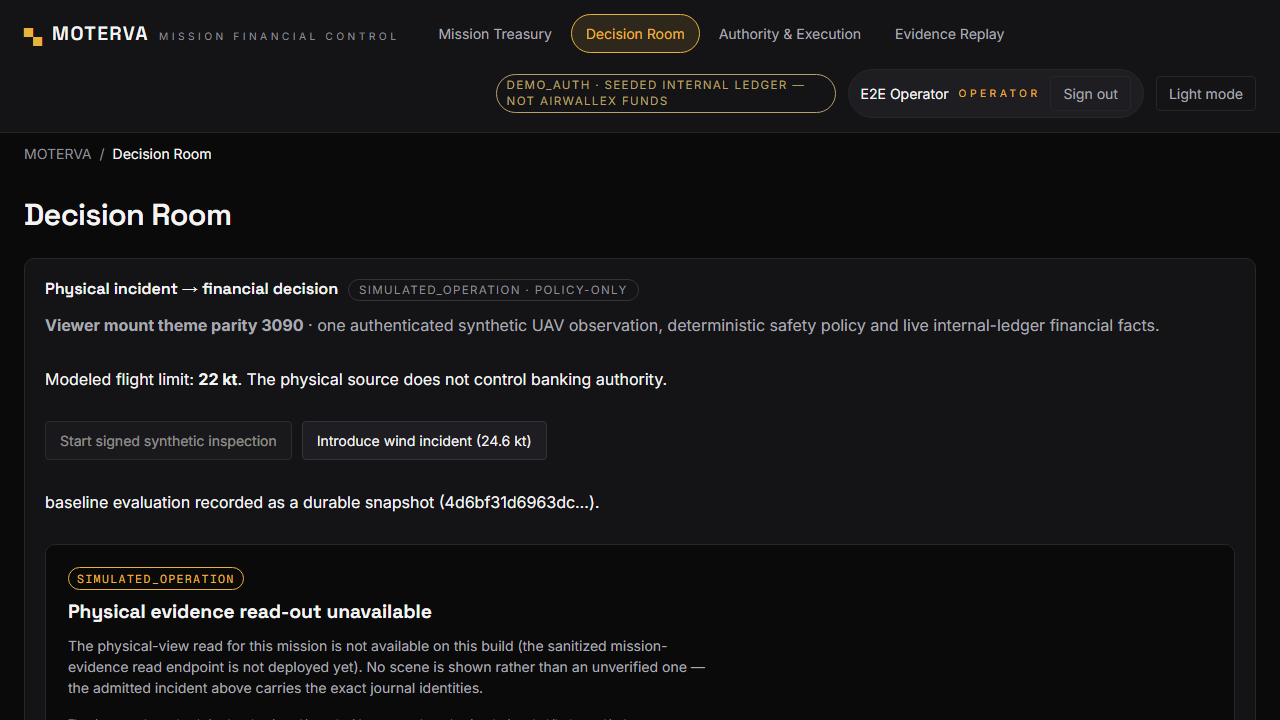
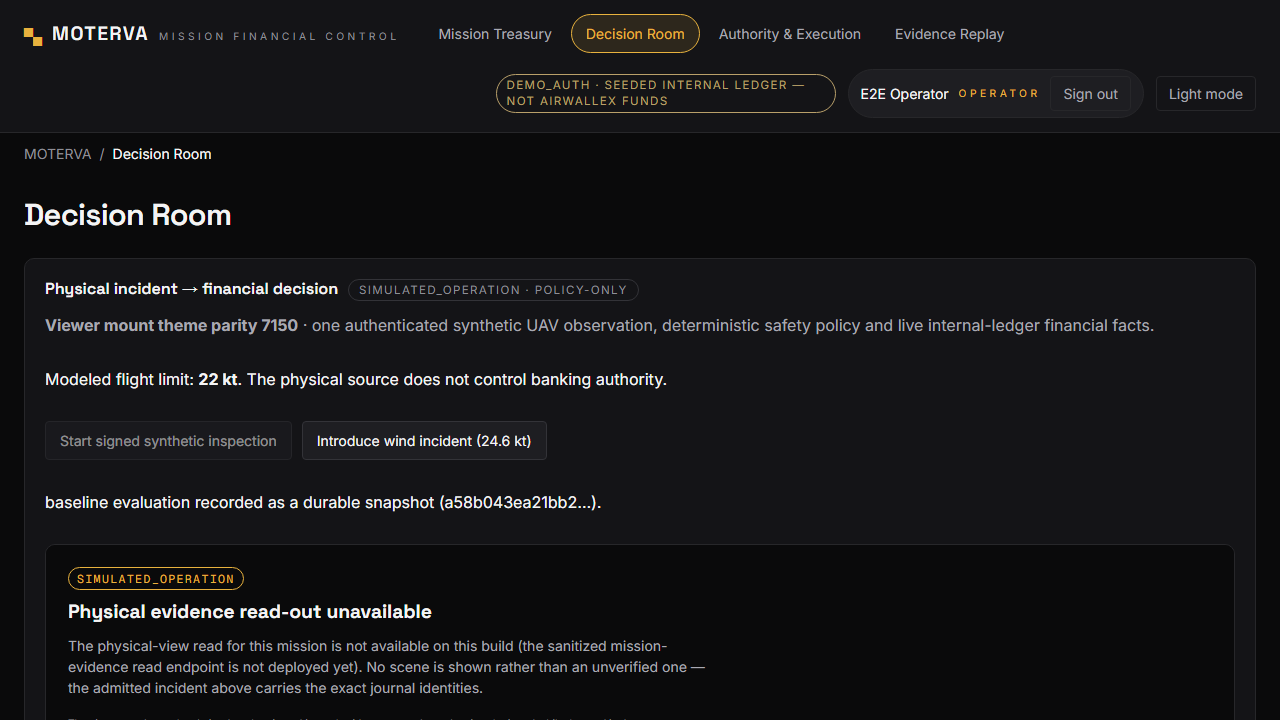
fix(mtv-12): async GLB attach must owe a rendered frame under demand gating (caught on hardware GL)

Changed region(s): [[0.1875, 0.4278, 0.9062, 0.4583], [0.3438, 0.6722, 0.4688, 0.7333]]

diff --git a/apps/web/src/mission-viewer/viewer3d.ts b/apps/web/src/mission-viewer/viewer3d.ts
@@ -391,6 +391,7 @@ export class MissionViewer3d {
         });
         this.droneGroup = group;
         this.scene.add(group);
+        this.needsRender = true; // async attach after the last frame must paint
         if (this.lastState !== null) this.applyPoses(this.lastState);
       },
       undefined,
@@ -399,6 +400,7 @@ export class MissionViewer3d {
         this.modelFallback = true;
         this.droneGroup = this.placeholderUav();
         this.scene.add(this.droneGroup);
+        this.needsRender = true;
         if (this.lastState !== null) this.applyPoses(this.lastState);
       },
     );
@@ -422,6 +424,7 @@ export class MissionViewer3d {
         });
         this.vesselGroup = group;
         this.scene.add(group);
+        this.needsRender = true; // async attach must paint
         this.applyVesselOrientation();
       },
       undefined,
@@ -429,6 +432,7 @@ export class MissionViewer3d {
         this.modelFallback = true;
         this.vesselGroup = this.placeholderVessel();
         this.scene.add(this.vesselGroup);
+        this.needsRender = true;
       },
     );
   }
